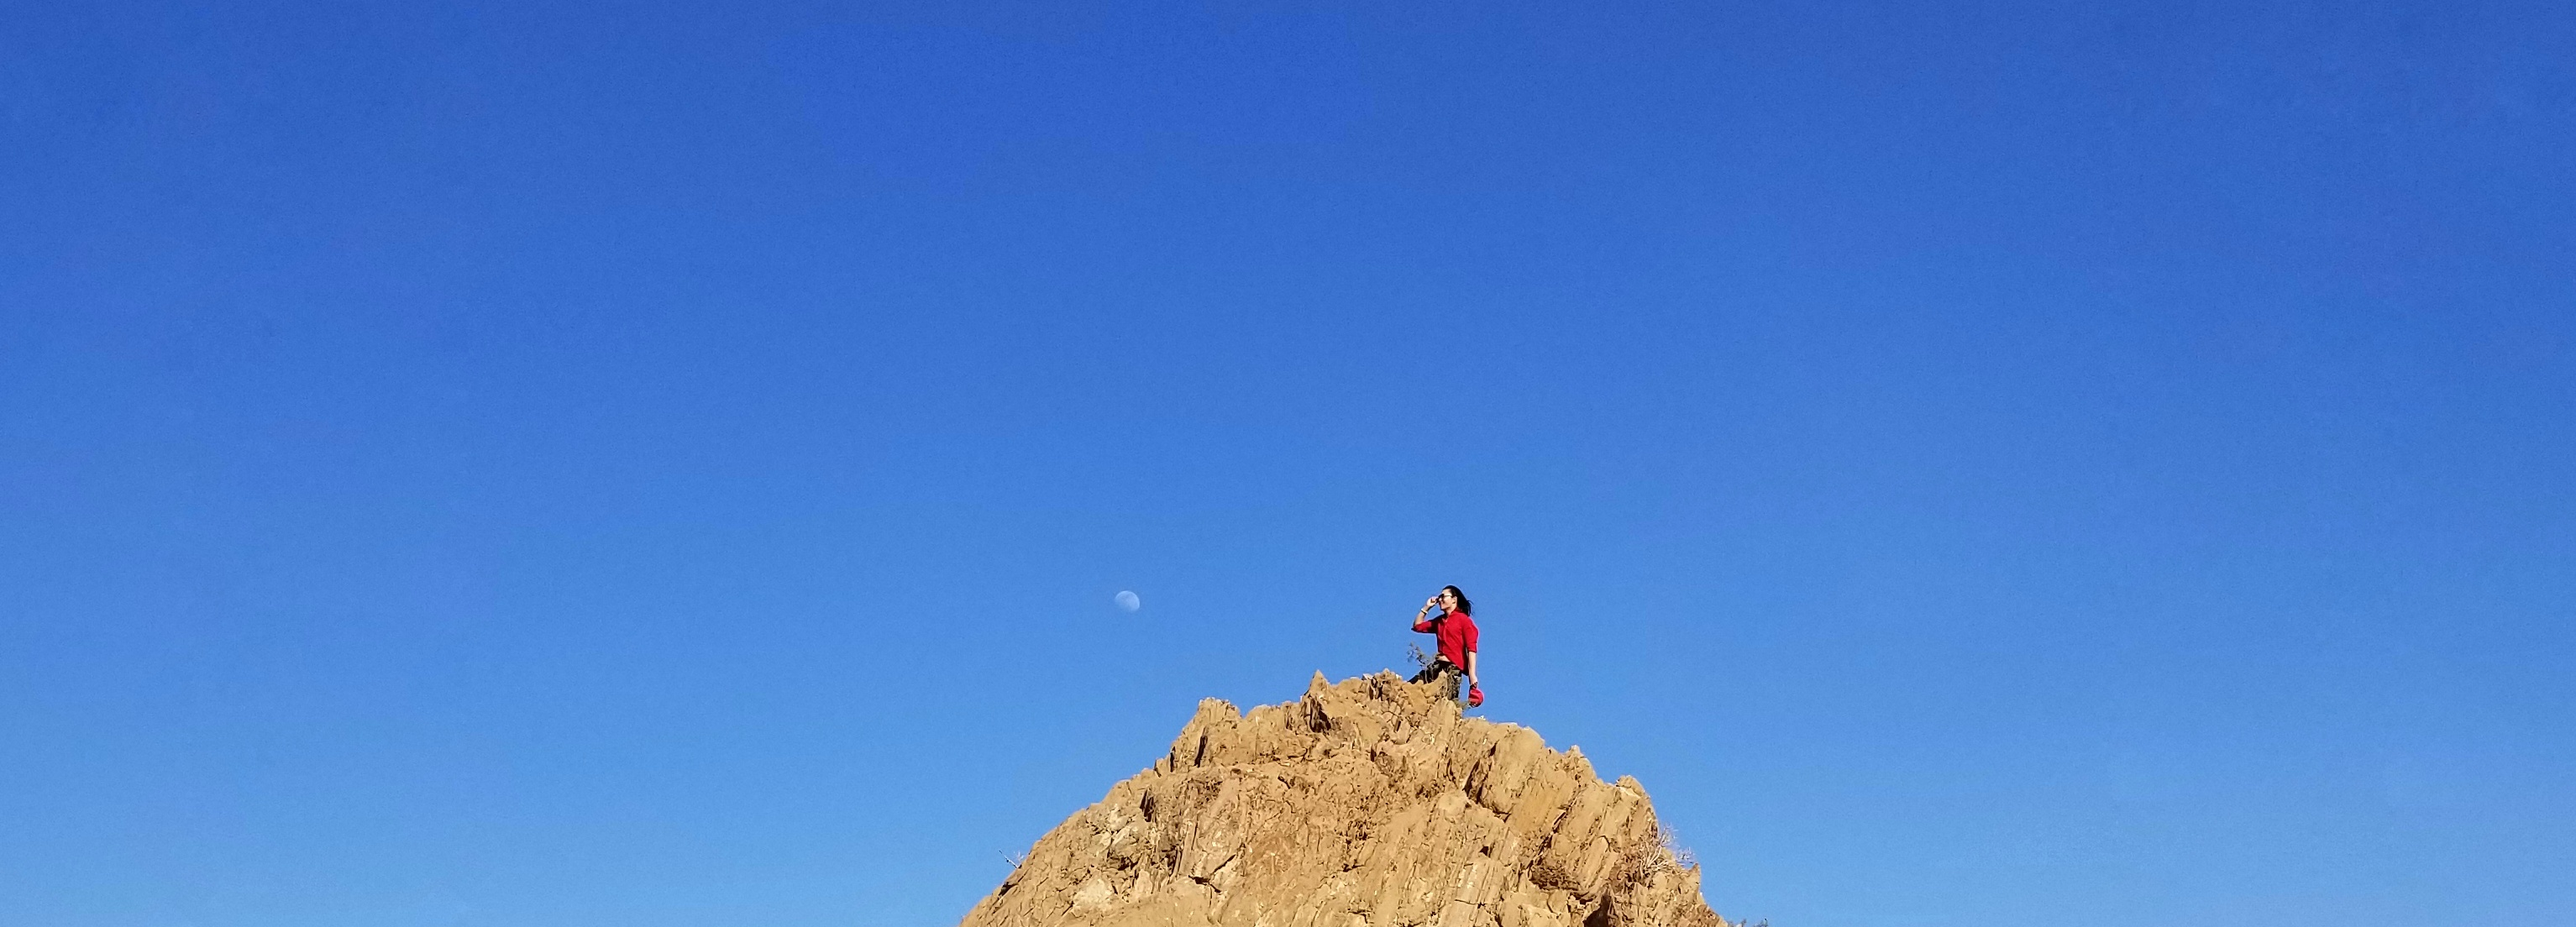
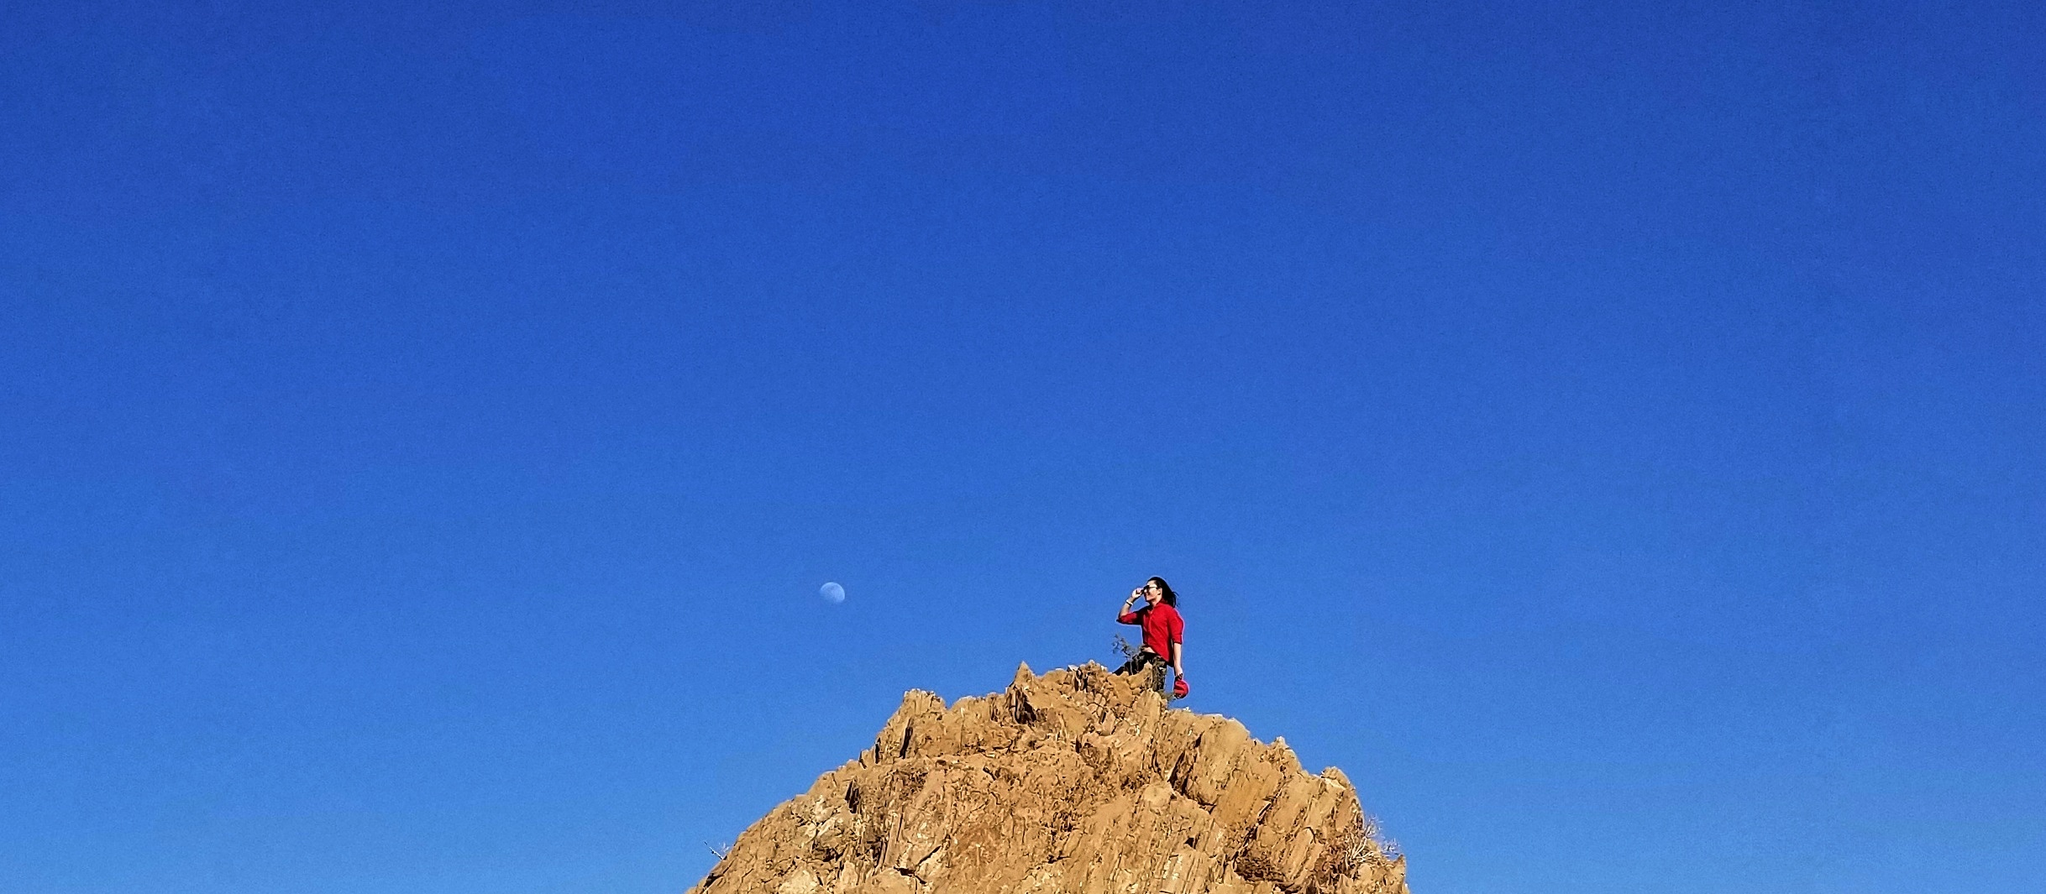
responsive big homepage image

diff --git a/src/ReusableComponents.jsx b/src/ReusableComponents.jsx
@@ -6,24 +6,22 @@ import raidsrcLogoUrl from "./static/raid handwritten alone thick very white no 
 
 function Navbar(props) {
    return (
-      <nav>
-         <div className="bg-gray-800 shadow-lg flex fixed justify-center w-full z-10">
-            <div className="flex flex-row text-white top-0 w-full justify-between py-2 px-4 items-center max-w-yuge tiny-screen:py-3 tiny-screen:px-5 sm:px-10 md:px-16 md:text-lg md:h-20 lg:h-20">
-               <ClickableRaidsrcIcon to="/" />
-               <div className="flex flex-row justify-around space-x-4 sm:space-x-7 md:space-x-9 lg:space-x-12">
-                  <NavButton className="w-auto hover:text-gray-200 active:text-gray-600 text-sm tiny-screen:text-base sm:text-lg md:text-xl xl:text-2xl"
-                     to="/about" >
-                     About
-                  </NavButton>
-                  <NavButton className="w-auto hover:text-gray-200 active:text-gray-600 text-sm tiny-screen:text-base sm:text-lg md:text-xl xl:text-2xl"
-                     to="/resume">
-                     Résumé
-                  </NavButton>
-                  <NavButton className="w-auto hover:text-gray-200 active:text-gray-600 text-sm tiny-screen:text-base sm:text-lg md:text-xl xl:text-2xl"
-                     to="/contact">
-                     Find Me
-                  </NavButton>
-               </div>
+      <nav className="bg-gray-800 shadow-lg flex fixed justify-center w-full z-10">
+         <div className="flex flex-row text-white top-0 w-full justify-between py-2 px-4 items-center max-w-yuge tiny-screen:py-3 tiny-screen:px-5 sm:px-10 md:px-16 md:text-lg md:h-20 lg:h-20">
+            <ClickableRaidsrcIcon to="/" />
+            <div className="flex flex-row justify-around space-x-4 sm:space-x-7 md:space-x-9 lg:space-x-12">
+               <NavButton className="w-auto hover:text-gray-200 active:text-gray-600 text-sm tiny-screen:text-base sm:text-lg md:text-xl xl:text-2xl"
+                  to="/about" >
+                  About
+               </NavButton>
+               <NavButton className="w-auto hover:text-gray-200 active:text-gray-600 text-sm tiny-screen:text-base sm:text-lg md:text-xl xl:text-2xl"
+                  to="/resume">
+                  Résumé
+               </NavButton>
+               <NavButton className="w-auto hover:text-gray-200 active:text-gray-600 text-sm tiny-screen:text-base sm:text-lg md:text-xl xl:text-2xl"
+                  to="/contact">
+                  Find Me
+               </NavButton>
             </div>
          </div>
       </nav>

diff --git a/src/Pages.jsx b/src/Pages.jsx
@@ -5,7 +5,8 @@ import { TransitionGroup, CSSTransition } from "react-transition-group"
 import { useSpring, animated, config } from "react-spring"
 import "./animationStyles.css"
 import bananasJpg from "./static/bananas.jpg"
-import rayShiprock from "./static/ray atop shiprock wide.jpeg"
+import rayShiprock from "./static/ray atop shiprock.jpg"
+import rayShiprockWide from "./static/ray atop shiprock wide.jpeg"
 
 function HomePage(props) {
    const [reverse, setReverse] = useState(false)
@@ -34,8 +35,9 @@ function HomePage(props) {
             // TODO: ADD COOL DIAGONAL LINE COLORED SHIT ON THE HOMEPAGE FROM TOP LEFT TO BOTTOM RIGHT SLIGHT INCLINE GREY BELOW COLORED ABOVE 
          }
          <div>
-            <div className="w-full">
-               <img className="w-full h-screen object-cover object-center" src={rayShiprock}></img>
+            <div className="w-full py-16 lg:py-0">
+               <img className="w-full lg:hidden" src={rayShiprock} />
+               <img className="hidden w-screen h-screen lg:block lg:object-cover lg:object-center" src={rayShiprockWide} />
             </div>
             <CenteredFullPageFlexContainer>
                <SiteConstructionBanner />

diff --git a/tailwind.config.js b/tailwind.config.js
@@ -14,6 +14,13 @@ module.exports = {
         '400px': '400px',
         '900px': '900px',
       },
+      height: {
+        '50vh': '50vh',
+        '60vh': '60vh',
+        '70vh': '70vh',
+        '80vh': '80vh',
+        '90vh': '90vh',
+      },
       maxWidth: {
         'yuge': '1700px',
       },
